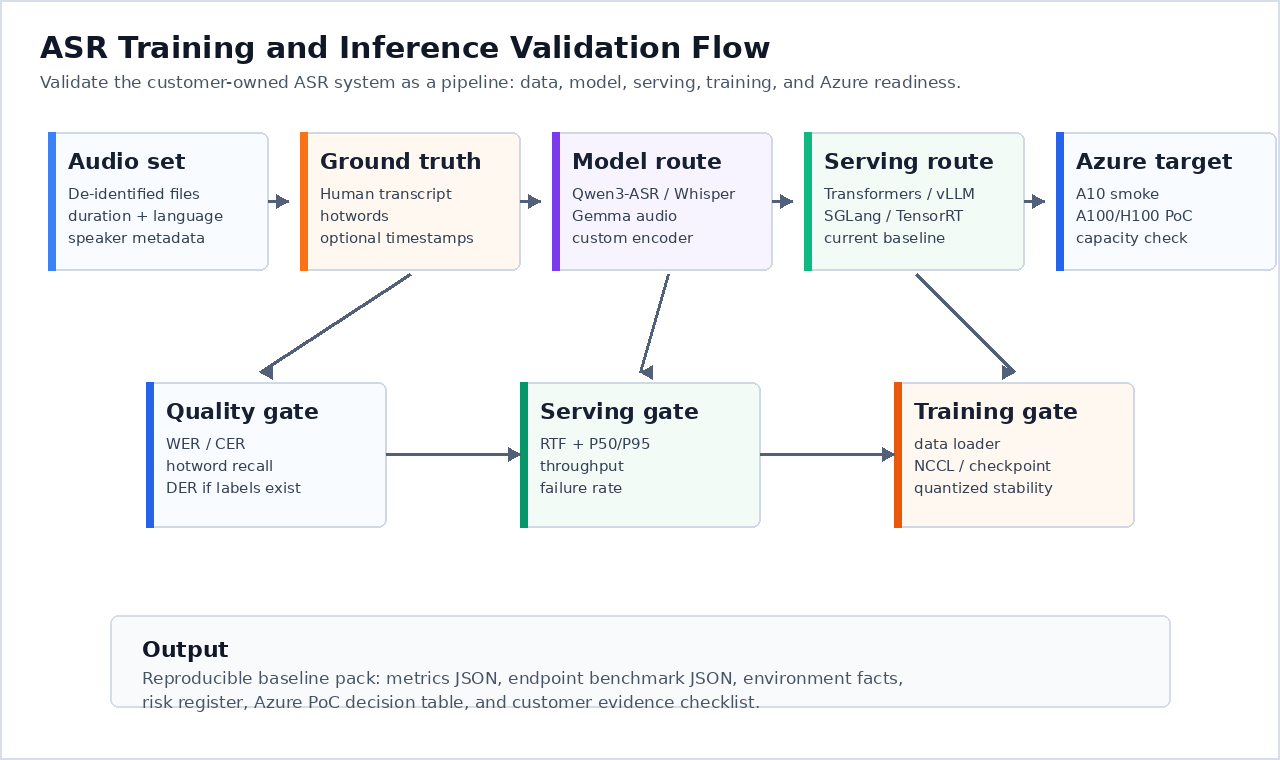
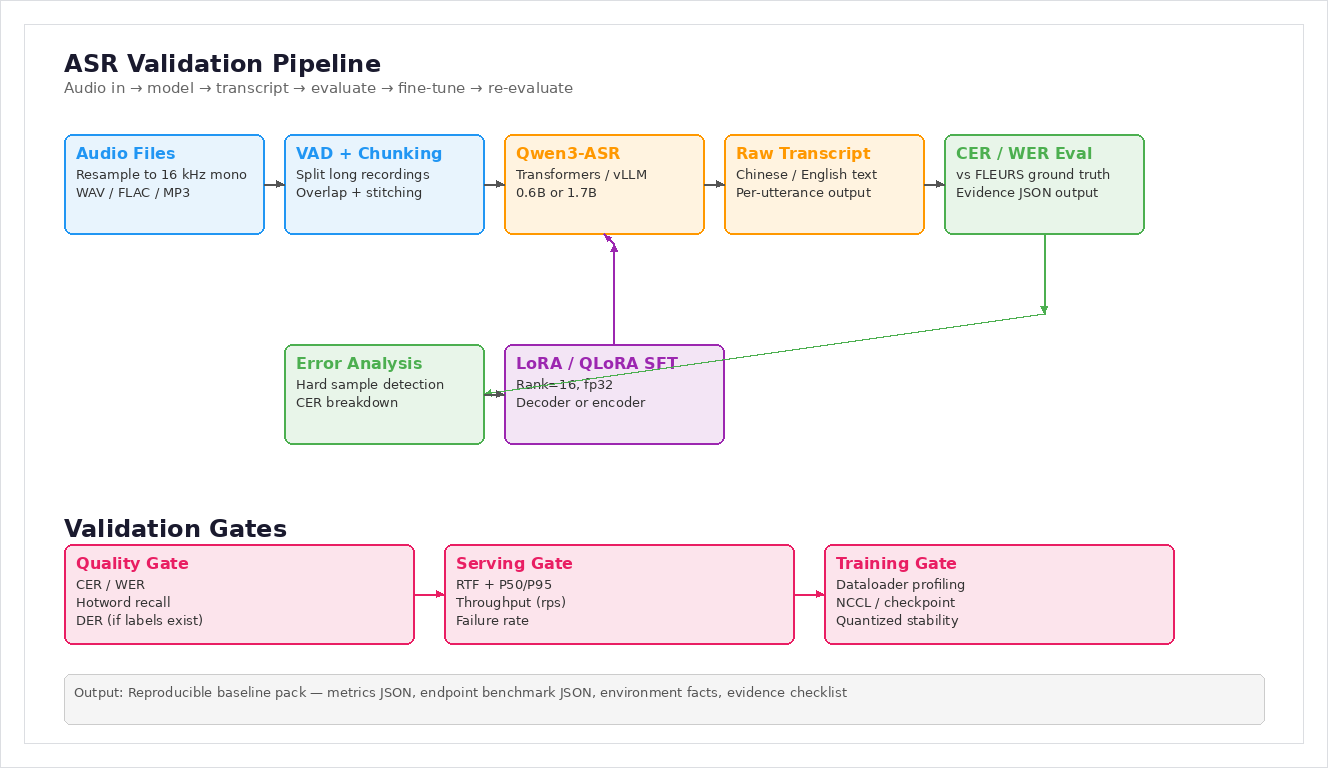
Super review: fix public safety (target team→production team, the the typo, customer filename), replace Mermaid with PNG architecture diagram, add architecture to Running on Azure section, remove empty reports/

diff --git a/Deep-Learning/Qwen3-ASR-Training-Inference-Validation-on-Azure/README.md b/Deep-Learning/Qwen3-ASR-Training-Inference-Validation-on-Azure/README.md
@@ -11,7 +11,7 @@ English | [中文版](README-CN.md)
 
 Field guide and validation harness for ASR stacks: Qwen/Gemma-style backbone, Hugging Face training, and high-throughput serving engines (vLLM, SGLang, TensorRT-LLM).
 
-The point is not to claim that one public model solves the the target team's production workload. The point is to show how to validate the exact model route, training bottlenecks, serving latency, long-audio behavior, and Azure GPU fit with runnable scripts and raw JSON evidence.
+The point is not to claim that one public model solves a production team's production workload. The point is to show how to validate the exact model route, training bottlenecks, serving latency, long-audio behavior, and Azure GPU fit with runnable scripts and raw JSON evidence.
 
 ## Running on Azure
 
@@ -24,6 +24,10 @@ This repo is not a one-off ASR demo. It documents a **validation-first engineeri
 5. **Backbone alternatives and production gates** — document the Gemma 3n route (requires PyTorch 2.6+ with cuDNN 9.1+ due to head_dim=256 SDPA compatibility; see `docs/gemma-3n-audio-feasibility.md`), confirm SGLang/TRT-LLM ASR support boundaries, and define acceptance criteria for production audio evaluation
 
 All completed experiments in this public repo use public audio samples or public FLEURS data. Proprietary audio, private endpoints, and subscription details stay outside this public artifact.
+
+The diagram below shows the core data flow of the entire pipeline; Section 3 walks through each stage in detail.
+
+<div align="center"><img src="images/solution_architecture.png" width="960"></div>
 
 ### Key Terms Used in This Repo
 
@@ -70,7 +74,7 @@ All findings below come from a controlled Azure H100 validation using public sam
 
 | Finding | Measured result | Action |
 |---|---|---|
-| Qwen3-ASR public CER baseline is usable for harness validation | 0.6B=**7.74%**, 1.7B=**7.09%** on 200 FLEURS Chinese samples | Use it as the public regression baseline, not as target team-domain quality |
+| Qwen3-ASR public CER baseline is usable for harness validation | 0.6B=**7.74%**, 1.7B=**7.09%** on 200 FLEURS Chinese samples | Use it as the public regression baseline, not as domain-specific quality |
 | BF16 training produces NaN from step 1 | `grad_norm=nan`, loss meaningless, model destroyed | Always start with FP32; validate mixed precision separately |
 | Small-data full-param SFT overfits badly | CER degraded from **7.74%** to **21.53%** | Do not start with full-param SFT on limited data |
 | LoRA is the best first tuning route in this run | LoRA rank=16: only **0.78%** params, reached **5.48%** CER on 80-sample check | Use LoRA before full-param updates |
@@ -92,7 +96,7 @@ All findings below come from a controlled Azure H100 validation using public sam
 | Precision | FP32 stability baseline; mixed precision only after grad_norm/CER checks | Prevents silent NaN or destroyed checkpoints |
 | Serving engine | vLLM Qwen3-ASR transcription endpoint | Verified clean-env route and strong latency/concurrency data |
 | Audio ingestion | Chunked audio with VAD + overlap + stitching | Avoids long-audio collapse and keeps latency predictable |
-| Acceptance data | Target Team de-identified audio + human transcript + hotwords | Public FLEURS proves harness only; domain-specific decides production quality |
+| Acceptance data | De-identified domain audio + human transcript + hotwords | Public FLEURS proves harness only; domain-specific decides production quality |
 
 ---
 
@@ -216,20 +220,20 @@ Gemma 3n E2B-it weights were downloaded (10.9 GB) and the official `Gemma3nForCo
 
 ## 2. Engineering Questions Mapped to Evidence
 
-| Target Team requirement | What this repo can already show | What still needs target team input |
+| Production requirement | What this repo can already show | What still needs production team input |
 |---|---|---|
 | Qwen/Gemma backbone | Qwen3-ASR 0.6B/1.7B H100 inference and long-audio evidence; Gemma 3n E2B-it official HF route and environment prerequisites documented | Exact target checkpoint; Gemma 3n clean-env audio smoke and CER if they choose Gemma as the ASR backbone |
-| Training with HF ecosystem | Official Qwen3-ASR fine-tuning entry point and JSONL format are documented | Target Team training command, Accelerate/DeepSpeed/FSDP config, failure logs |
+| Training with HF ecosystem | Official Qwen3-ASR fine-tuning entry point and JSONL format are documented | The team's training command, Accelerate/DeepSpeed/FSDP config, failure logs |
 | vLLM/SGLang/TensorRT-LLM serving | vLLM officially supports Qwen3-ASR transcription; transformers backend benchmark is done | Clean vLLM env benchmark; SGLang/TRT-LLM feasibility for the exact model |
-| Data storage and throughput | Scripts and methodology to profile audio decode / dataloader / endpoint throughput | Target Team data layout, storage path, audio hours, codec, train/eval manifest |
+| Data storage and throughput | Scripts and methodology to profile audio decode / dataloader / endpoint throughput | The team's data layout, storage path, audio hours, codec, train/eval manifest |
 | Training stability and speed | Training diagnosis checklist and official Qwen3-ASR SFT route | Real training logs, checkpoint behavior, multi-node topology |
 | Quantized training stability | Decision table for BF16 vs QLoRA/FP8 validation | A real fine-tuning run and quantized training config |
 | Inference latency and throughput | H100 batch throughput, RTF, long-audio failure mode | Target SLA, representative audio duration, and serving topology |
-| Accuracy improvement | CER script and public-sample smoke CER | Target Team or public eval dataset before/after fine-tuning |
+| Accuracy improvement | CER script and public-sample smoke CER | Domain-specific or public eval dataset before/after fine-tuning |
 
 ### Validation Coverage Matrix
 
-This repo maps back to the 17 validation goals used for the target team meeting prep. A checkmark means the repo has raw evidence. A warning means the route is documented, but the remaining step requires target team topology, a clean follow-up run, or domain data.
+This repo maps back to the 17 validation goals used for the engineering meeting prep. A checkmark means the repo has raw evidence. A warning means the route is documented, but the remaining step requires the actual multi-GPU topology, a clean follow-up run, or domain data.
 
 | # | Validation goal | Repo status | Evidence |
 |---:|---|---|---|
@@ -255,21 +259,7 @@ This repo maps back to the 17 validation goals used for the target team meeting 
 
 ## 3. Reference Architecture
 
-The diagram below shows the core data flow of the ASR validation pipeline. Each stage has been validated in this repo with runnable scripts and JSON evidence.
-
-```mermaid
-flowchart LR
-    A["Audio files"] --> B["Resample / normalize\n16 kHz mono"]
-    B --> C["Qwen3-ASR\n(Transformers / vLLM)"]
-    C --> D["Raw transcript"]
-    D --> E["CER / WER evaluator"]
-    E --> F["Evidence JSON"]
-    F --> G["Error analysis"]
-    G --> H["LoRA / QLoRA\nfine-tuning"]
-    H --> C
-    B --> I["VAD + chunking"]
-    I --> C
-```
+The architecture diagram (shown in the "Running on Azure" section above) illustrates the core data flow. Each stage has been validated with runnable scripts and JSON evidence.
 
 **Data flow (left to right):**
 
@@ -500,7 +490,7 @@ The data tells a clear story: 100-sample full-param SFT pushed loss to 0.17 (alm
 | **Regularization** | LoRA rank=16 acts as an implicit capacity constraint. The model adjusts output format without overwriting base acoustic knowledge. |
 | **Audio encoder sensitivity** | Qwen3-ASR's audio encoder produces NaN in bf16 training. Full-param SFT in fp32 moves all 788M weights including the sensitive encoder. LoRA keeps the encoder frozen. |
 
-Full-param SFT is not broken — it is risky on small data. Reserve it for large, well-curated corpora (thousands of hours). For a first target team PoC with limited labeled data, LoRA is the safer starting point.
+Full-param SFT is not broken — it is risky on small data. Reserve it for large, well-curated corpora (thousands of hours). For a first a PoC with limited labeled data, LoRA is the safer starting point.
 
 ### Real Transcription Examples
 
@@ -512,7 +502,7 @@ The table below shows actual model output on FLEURS Chinese test samples. Notice
 | 2 | 钙 钾 等 元 素 属 于 金 属 银 和 金 等 元 素 当 然 也 是 金 属 | 钙、钾等元素属于金属，银和金等元素当然也是金属。 | Added punctuation (、，。) |
 | 3 | 桥 下 垂 直 净 空 15 米 该 项 目 于 2011 年 8 月 完 工... | 桥下垂直净空十五米。该项目于二零一一年八月完工... | Digits → Chinese numerals (15→十五, 2011→二零一一) |
 
-These examples come from `results/qwen3_asr_0.6b_4bit_cer_comparison.json`. The CER metric treats each inserted/substituted character as an error, so punctuation and digit normalization inflate CER even though the semantic content is correct. This is a known property of character-level evaluation and should be discussed with the target team when interpreting CER numbers.
+These examples come from `results/qwen3_asr_0.6b_4bit_cer_comparison.json`. The CER metric treats each inserted/substituted character as an error, so punctuation and digit normalization inflate CER even though the semantic content is correct. This is a known property of character-level evaluation and should be discussed with the production team when interpreting CER numbers.
 
 ### Key Config Decisions Explained
 
@@ -578,7 +568,7 @@ same eval audio + same ground truth
     -> WER/CER/hotword comparison
 ```
 
-A public proxy dataset such as FLEURS can prove the training harness. Target Team data is still required for domain-specific accuracy claims.
+A public proxy dataset such as FLEURS can prove the training harness. Domain-specific data is still required for domain-specific accuracy claims.
 
 ---
 
@@ -676,7 +666,7 @@ Important: create a clean environment. In our H100 system environment, `qwen-asr
 | SGLang | High-performance LLM/multimodal serving framework, but no confirmed Qwen3-ASR transcription endpoint in the docs checked here |
 | TensorRT-LLM | Useful for decoder-heavy LLM paths, but full audio frontend + ASR pipeline support must be validated per model |
 
-Do not claim SGLang or TensorRT-LLM supports the the target team's ASR model until the exact checkpoint runs with the target audio endpoint contract.
+Do not claim SGLang or TensorRT-LLM supports a production team's ASR model until the exact checkpoint runs with the target audio endpoint contract.
 
 ---
 
@@ -753,16 +743,16 @@ results/h100/h100_vllm_serving_benchmark.json
 ## 8. Current Limitations
 
 - ~~We have not yet run Qwen3-ASR fine-tuning in this repo.~~ **Done**: SFT runs in fp32; bf16 produced NaN in this run.
-- ~~We have not yet run FLEURS or domain-data before/after WER/CER.~~ **Partially done**: FLEURS baseline CER is available; target team-domain CER still requires domain data.
+- ~~We have not yet run FLEURS or domain-data before/after WER/CER.~~ **Partially done**: FLEURS baseline CER is available; domain-specific CER still requires domain data.
 - Gemma 3n audio is documented as ASR-capable. In this run, the E2B-it weights were downloaded and the official HF API path was prepared, but a final clean-env smoke JSON was not collected before SSH timeout. Do not claim Gemma FLEURS CER from this repo yet.
 - ~~vLLM serving is officially supported, but our first endpoint attempt failed.~~ **Done**: Clean env works; CUDA Graph path showed no CER regression on a 20-sample check.
 - The concurrent vLLM benchmark is available through concurrency 16; higher concurrency levels should be remeasured on proprietary audio duration and SLA.
-- LoRA rank=16 was trained and evaluated on the public FLEURS subset; target team-domain LoRA CER still requires domain data.
+- LoRA rank=16 was trained and evaluated on the public FLEURS subset; domain-specific LoRA CER still requires domain data.
 - 4-bit NF4 inference and QLoRA SFT have public FLEURS CER checks; FP8 fine-tuning still needs a validated TransformerEngine/torchao-style recipe.
-- Checkpoint/resume smoke works on one H100; multi-GPU torchrun behavior still requires a multi-GPU or target team topology.
+- Checkpoint/resume smoke works on one H100; multi-GPU torchrun behavior still requires a multi-GPU or the actual multi-GPU topology.
 - FP32 LR smoke covered 2e-5/1e-5/5e-6/2e-6 without NaN; data-size gradient and mixed-precision recipes remain future work.
 - SGLang does not have Qwen3-ASR in its model registry; TensorRT-LLM only supports Whisper for ASR.
-- Public samples do not represent the the target team's meeting audio, device microphones, accents, noise, diarization, or hotwords.
+- Public samples do not represent a production team's meeting audio, device microphones, accents, noise, diarization, or hotwords.
 
 ---
 

diff --git a/Deep-Learning/Qwen3-ASR-Training-Inference-Validation-on-Azure/README-CN.md b/Deep-Learning/Qwen3-ASR-Training-Inference-Validation-on-Azure/README-CN.md
@@ -23,6 +23,10 @@
 
 本 public repo 里已完成的实验都使用公开音频样例或公开 FLEURS 数据。私有音频、私有 endpoint 和订阅信息不进入本 public artifact。
 
+下图展示了整条 pipeline 的核心数据流；Section 3 有逐步详解。
+
+<div align="center"><img src="images/solution_architecture.png" width="960"></div>
+
 ### 本文关键术语速查
 
 如果你不熟悉 ASR 工程术语，这张表可以作为全文阅读的参考：
@@ -259,21 +263,7 @@ Gemma 3n E2B-it 权重已下载（10.9 GB），官方 `Gemma3nForConditionalGene
 
 ## 3. 参考架构
 
-下图展示 ASR 验证 pipeline 的核心数据流。每个阶段都有对应的可执行脚本和 JSON 证据。
-
-```mermaid
-flowchart LR
-    A["音频文件"] --> B["重采样 / 归一化\n16 kHz mono"]
-    B --> C["Qwen3-ASR\n(Transformers / vLLM)"]
-    C --> D["原始转录文本"]
-    D --> E["CER / WER 评测"]
-    E --> F["Evidence JSON"]
-    F --> G["错误分析"]
-    G --> H["LoRA / QLoRA\n微调"]
-    H --> C
-    B --> I["VAD + chunking"]
-    I --> C
-```
+架构图（见上方"在 Azure 上运行"章节）展示了核心数据流。每个阶段都有对应的可执行脚本和 JSON 证据。
 
 **数据流（从左到右）**：
 
